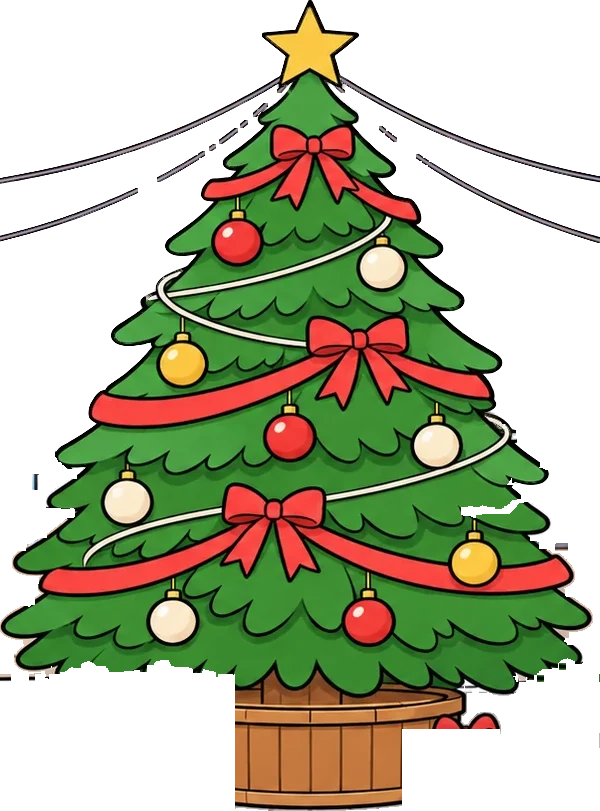
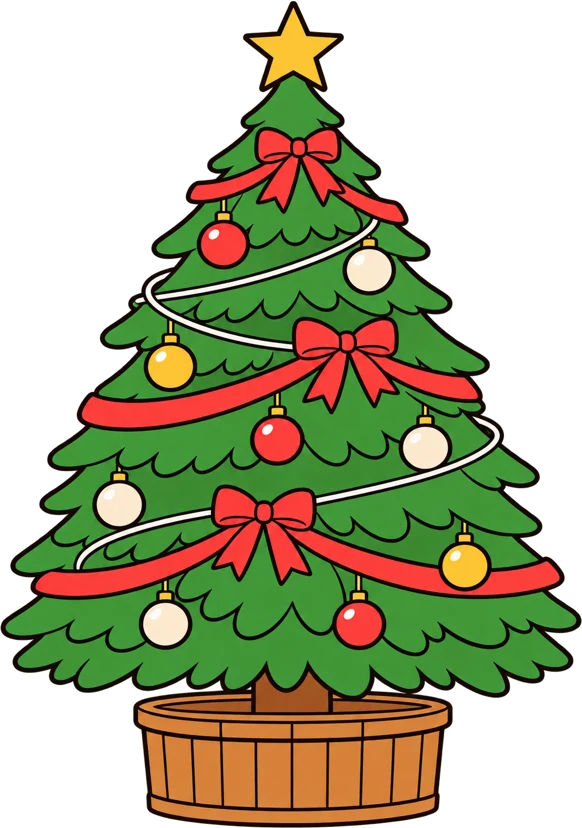
크리스마스 광장: 트리를 주인이 ChatGPT로 다시 그린 것으로(테두리가 망가져서) — 꼭대기 별 자리에 맞춤, 트리 모양이 바뀌어 드러난 전구 줄 빈 곳은 곡선을 맞춰 이어 그림 (tools/fix_plaza_wires.py, web/plaza/props/tree·lights)
Claude-Session: https://claude.ai/code/session_013gkWdjqDwwMfs8SrUNHEXQ

diff --git a/tools/fix_plaza_wires.py b/tools/fix_plaza_wires.py
@@ -1,0 +1,66 @@
+#!/usr/bin/env python3
+"""광장 전구 줄 소품(web/plaza/props/lights-day·night.webp)의 끊긴 곳 잇기 (2026-11-16).
+전구 줄은 크리스마스 그림에서 차이로 떼어 냈는데(tools/make_plaza_props.py), 그때 트리에 가려 있던 부분은 비어 있다.
+트리를 새로 받아 모양이 바뀌면서 빈 곳이 보이게 돼, 줄 4가닥(왼쪽 위·아래, 오른쪽 위·아래)을 보이는 픽셀로 2차 곡선을 맞춰
+트리 가운데(TOP_X)까지 같은 색·굵기로 이어 그린다(트리 뒤 겹이라 나머지는 트리가 가림). make_plaza_props.py 다음에 돌린다."""
+from pathlib import Path
+from PIL import Image, ImageDraw
+import numpy as np
+
+ROOT = Path(__file__).resolve().parent.parent
+AT_Y = 65          # 전구 줄 소품 자리 y (scene.json props lights.at)
+TOP_X = 780        # 트리 가운데(꼭대기 별 x)
+SPLIT = (470, 1070)  # 이 x 바깥에서만 맞춤 (안쪽은 원래 트리에 가렸던 곳)
+OUTER = {'day': (20, 18, 26, 255), 'night': (20, 18, 26, 255)}  # 밤 그림의 줄도 같은 색
+INNER = {'day': (160, 148, 155, 255), 'night': (160, 148, 155, 255)}
+BLEND = 30  # 맞춘 곳 바깥쪽으로 이만큼 들어와서부터 새로 그림
+
+
+def runs(col):
+    ys = np.nonzero(col)[0]
+    out, s, p = [], None, None
+    for y in ys:
+        if s is None:
+            s = p = y
+        elif y == p + 1:
+            p = y
+        else:
+            out.append((s + p) / 2)
+            s = p = y
+    if s is not None:
+        out.append((s + p) / 2)
+    return out
+
+
+day = np.array(Image.open(ROOT / 'web/plaza/props/lights-day.webp').convert('RGBA'))
+op = day[..., 3] > 100
+H, W = op.shape
+wires = {'L0': [], 'L1': [], 'R0': [], 'R1': []}
+for x in range(W):
+    rs = runs(op[:, x])
+    if len(rs) != 2:
+        continue
+    side = 'L' if x < SPLIT[0] else 'R' if x > SPLIT[1] else None
+    if side:
+        wires[side + '0'].append((x, rs[0]))
+        wires[side + '1'].append((x, rs[1]))
+fits = {k: np.polyfit([p[0] for p in v], [p[1] for p in v], 2) for k, v in wires.items()}
+for name in ('day', 'night'):
+    path = ROOT / f'web/plaza/props/lights-{name}.webp'
+    im = Image.open(path).convert('RGBA')
+    a = np.array(im)
+    # 줄 = 진한 외곽(OUTER) 안에 밝은 속(INNER) — 원래 그림과 같은 모양
+    a[:, SPLIT[0] - BLEND:SPLIT[1] + BLEND, 3] = 0  # 트리 근처 남은 조각은 지우고 새로(조각과 겹쳐 점선처럼 보여서)
+    lay = Image.fromarray(a, 'RGBA')
+    d = ImageDraw.Draw(lay)
+    for k, f in fits.items():
+        xs = range(SPLIT[0] - BLEND - 2, TOP_X + 1) if k[0] == 'L' else range(TOP_X, SPLIT[1] + BLEND + 3)
+        pts = [(x, float(np.polyval(f, x))) for x in xs]
+        pts = [(x, y) for x, y in pts if 0 <= y < H]
+        d.line(pts, fill=OUTER[name], width=6, joint='curve')
+        d.line(pts, fill=INNER[name], width=2, joint='curve')
+    a = np.array(lay)
+    Image.fromarray(a, 'RGBA').save(path, 'WEBP', lossless=True, method=6)
+    print(path.name)
+for k, f in fits.items():
+    print(k, '트리 가운데에서 y', round(float(np.polyval(f, TOP_X)) + AT_Y))

diff --git a/tools/make_plaza_props.py b/tools/make_plaza_props.py
@@ -124,7 +124,7 @@ for pid in ORDER:
     print(f'{pid:11s} 자리 {places[pid][:2]} 크기 {places[pid][2:]}')
 # 다시 그려 받은 소품 (2026-11-16: 차이 뽑기로는 회전목마·노점이 누덕누덕 — 주인이 ChatGPT로 같은 크기로 다시, 배경 투명):
 # assets/plaza/props/<id>-day·night-source-v1.png 는 assets/plaza/prop-ref/<id>-*-ref.png(아래 REF 상자를 자른 것)와 같은 크기·자리
-REF = {'carousel': (30, 390), 'stall': (186, 745)}
+REF = {'carousel': (30, 390), 'stall': (186, 745), 'tree': (469, 20)}  # tree: 참고 상자 (460, 20)에서 꼭대기 별을 맞추려 x +9
 for pid, (rx, ry) in REF.items():
     srcs = {n: ROOT / f'assets/plaza/props/{pid}-{n}-source-v1.png' for n in ('day', 'night')}
     if not all(f.exists() for f in srcs.values()):
